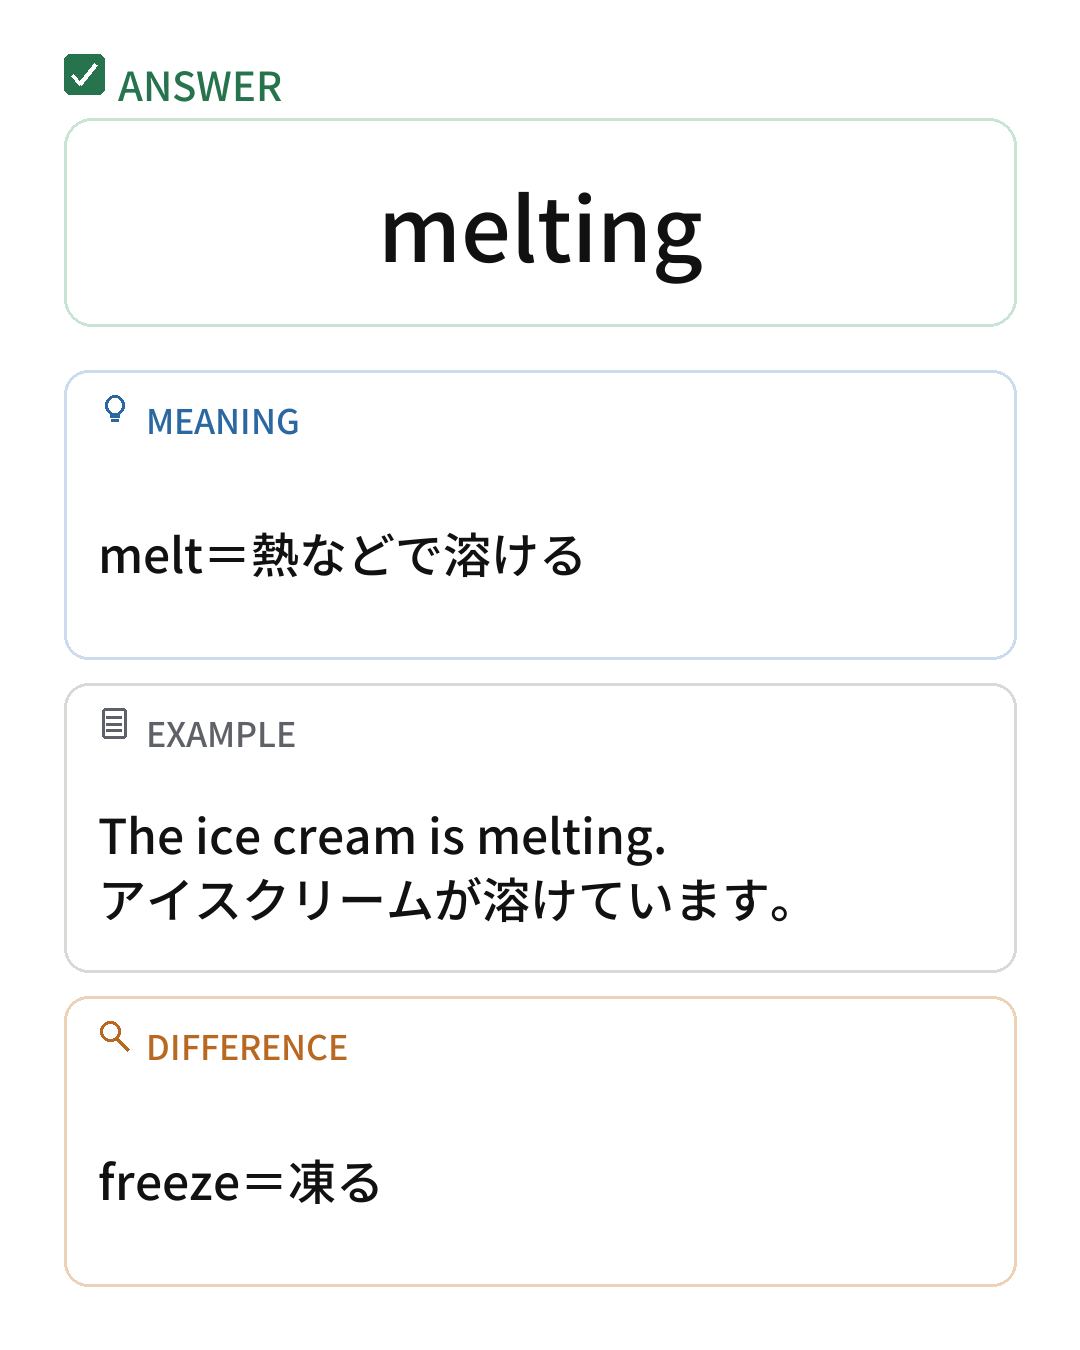
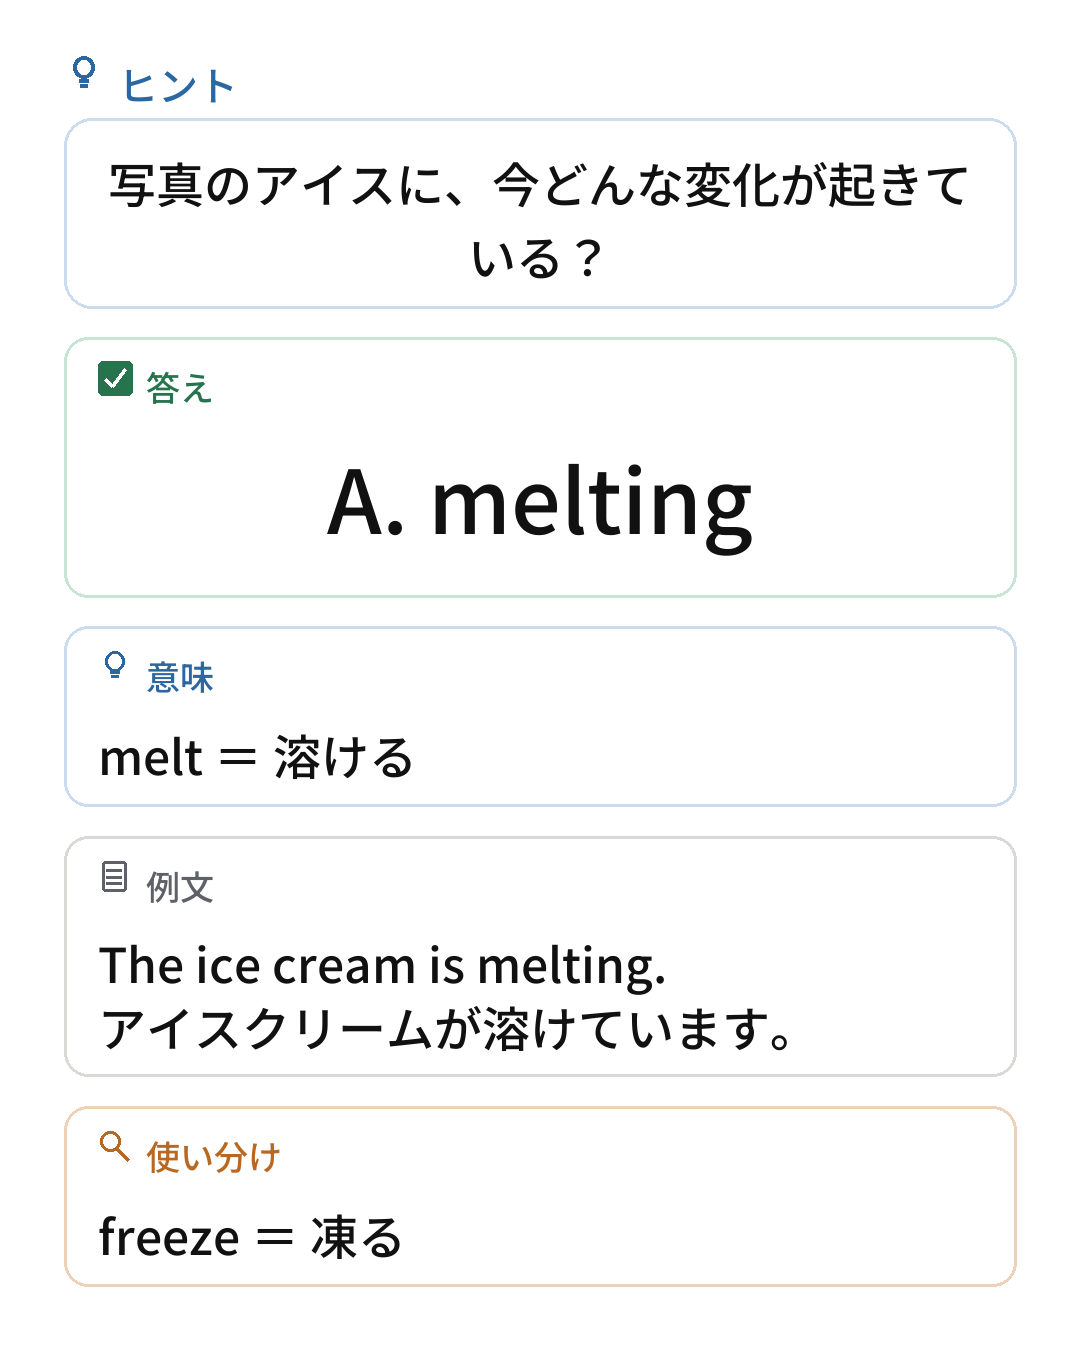
Finalize learner-focused answer image flow

diff --git a/src/instagram_automation/answer_renderer.py b/src/instagram_automation/answer_renderer.py
@@ -8,18 +8,23 @@ from .renderer import BACKGROUND, CANVAS_SIZE, RenderError, TEXT, _font, _wrap
 from .validation import validate
 
 HEADINGS = {
-    "answer": "ANSWER",
-    "point": "POINT",
-    "meaning": "MEANING",
-    "example": "EXAMPLE",
-    "difference": "DIFFERENCE",
-    "also_natural": "ALSO NATURAL",
-    "tip": "TIP",
+    "answer": "答え",
+    "point": "ポイント",
+    "hint": "ヒント",
+    "meaning": "意味",
+    "example": "例文",
+    "difference": "使い分け",
+    "also_natural": "こんな言い方も",
+    "tip": "補足",
 }
+
+GENERIC_HINT = "答えを見る前に、もう一度考えてみよう。"
+FORBIDDEN_HINT_PHRASES = ("を選びます", "を表す語", "に使う前置詞")
 
 STYLES = {
     "answer": {"accent": "#26734D", "background": "#FFFFFF", "border": "#C8E4D4"},
     "point": {"accent": "#2B67A0", "background": "#FFFFFF", "border": "#CADCED"},
+    "hint": {"accent": "#2B67A0", "background": "#FFFFFF", "border": "#CADCED"},
     "meaning": {"accent": "#2B67A0", "background": "#FFFFFF", "border": "#CADCED"},
     "example": {"accent": "#5E6268", "background": "#FFFFFF", "border": "#D9D9D6"},
     "difference": {"accent": "#B96822", "background": "#FFFFFF", "border": "#EED2B8"},
@@ -48,17 +53,23 @@ def _example(content: dict) -> str:
 def _sections(content: dict) -> list[tuple[str, str]]:
     category = content.get("category")
     if category == "grammar":
-        sections = [("point", _required_text(content, "explanation")),
-                    ("example", _example(content))]
+        sections = [("answer", _answer_text(content)), ("example", _example(content))]
+        difference = content.get("key_difference")
+        if isinstance(difference, str) and difference.strip():
+            sections.append(("difference", difference.strip()))
     elif category == "vocabulary":
-        sections = [("meaning", _required_text(content, "explanation")),
+        sections = [("answer", _answer_text(content)),
+                    ("meaning", _required_text(content, "explanation")),
                     ("example", _example(content))]
         difference = content.get("key_difference")
         if isinstance(difference, str) and difference.strip():
             sections.append(("difference", difference.strip()))
     elif category == "situation":
-        sections = [("also_natural", _required_text(content, "also_natural")),
-                    ("point", _required_text(content, "explanation"))]
+        sections = [("answer", _answer_text(content)),
+                    ("also_natural", _required_text(content, "also_natural"))]
+        point = content.get("explanation")
+        if isinstance(point, str) and point.strip():
+            sections.append(("point", point.strip()))
     else:
         raise RenderError("Answer renderer category must be grammar, vocabulary, or situation")
 
@@ -66,6 +77,34 @@ def _sections(content: dict) -> list[tuple[str, str]]:
     if isinstance(tip, str) and tip.strip():
         sections.append(("tip", tip.strip()))
     return sections
+
+
+def _top_section(content: dict) -> tuple[str, str]:
+    kind = "hint"
+    approved = content.get("answer_hint_approved")
+    if not isinstance(approved, bool):
+        raise RenderError("answer_hint_approved must be boolean")
+    if not approved:
+        return kind, GENERIC_HINT
+    text = _required_text(content, "answer_hint")
+    answer = _required_text(content, "best_answer")
+    if answer.casefold() in text.casefold():
+        raise RenderError("answer_hint must not contain the best_answer")
+    if any(phrase in text for phrase in FORBIDDEN_HINT_PHRASES):
+        raise RenderError("answer_hint contains a prohibited answer-leading phrase")
+    return kind, text
+
+
+def _answer_text(content: dict) -> str:
+    answer = _required_text(content, "best_answer")
+    choices = content.get("choices")
+    try:
+        index = choices.index(answer)
+    except (AttributeError, ValueError):
+        raise RenderError("best_answer must exactly match a choice")
+    if index >= 26:
+        raise RenderError("Answer choice index exceeds supported labels")
+    return f"{chr(ord('A') + index)}. {answer}"
 
 
 def _wrap_paragraphs(draw: ImageDraw.ImageDraw, text: str, font: ImageFont.FreeTypeFont,
@@ -96,7 +135,7 @@ def _draw_icon(draw: ImageDraw.ImageDraw, position: tuple[int, int], kind: str, 
         draw.rounded_rectangle((x, y, x + size, y + size), radius=size // 6, fill=color)
         draw.line((x + size * .22, y + size * .54, x + size * .42, y + size * .75,
                    x + size * .80, y + size * .25), fill="#FFFFFF", width=stroke, joint="curve")
-    elif kind in {"point", "meaning"}:
+    elif kind in {"point", "hint", "meaning"}:
         draw.ellipse((x + size * .23, y + size * .05, x + size * .77, y + size * .62), outline=color, width=stroke)
         draw.line((x + size * .38, y + size * .65, x + size * .62, y + size * .65), fill=color, width=stroke)
         draw.line((x + size * .41, y + size * .78, x + size * .59, y + size * .78), fill=color, width=stroke)
@@ -137,6 +176,63 @@ def _draw_section(draw: ImageDraw.ImageDraw, box: tuple[int, int, int, int], kin
         y += font.size + spacing
 
 
+def _draw_answer_section(draw: ImageDraw.ImageDraw, box: tuple[int, int, int, int], text: str) -> None:
+    style = STYLES["answer"]
+    draw.rounded_rectangle(box, radius=24, fill=style["background"], outline=style["border"], width=3)
+    _draw_heading(draw, (box[0] + 34, box[1] + 24), "answer", 34)
+    from .renderer import _draw_centered_text
+    _draw_centered_text(draw, text, (box[0] + 34, box[1] + 82, box[2] - 34, box[3] - 28), 88, 54, 2)
+
+
+def _natural_height(draw: ImageDraw.ImageDraw, kind: str, text: str, is_top: bool = False) -> tuple[int, int]:
+    if is_top:
+        lines = _wrap_paragraphs(draw, text, _font(48), 888)
+        return max(190, min(250, 58 + len(lines) * 64)), 250
+    if kind == "answer":
+        return 260, 340
+    lines = _wrap_paragraphs(draw, text, _font(48), 884)
+    natural = 110 + len(lines) * 64
+    if kind == "example":
+        return max(240, min(340, natural)), 340
+    return max(180, min(280, natural)), 280
+
+
+def _layout(draw: ImageDraw.ImageDraw, top_text: str,
+            sections: list[tuple[str, str]]) -> tuple[int, int, list[tuple[int, int]]]:
+    available_top, available_bottom = 54, 1286
+    heights = [_natural_height(draw, "hint", top_text, is_top=True)[0]]
+    maximums = [_natural_height(draw, "hint", top_text, is_top=True)[1]]
+    for kind, text in sections:
+        height, maximum = _natural_height(draw, kind, text)
+        heights.append(height)
+        maximums.append(maximum)
+
+    gaps = [24] * (len(heights) - 1)
+    available = available_bottom - available_top - 64
+    extra = available - sum(heights) - sum(gaps)
+    if extra < 0:
+        raise RenderError("Answer sections exceed the available canvas height")
+
+    for index in range(len(gaps)):
+        growth = min(40, extra // (len(gaps) - index))
+        gaps[index] += growth
+        extra -= growth
+    for index in range(len(heights)):
+        growth = min(maximums[index] - heights[index], extra // (len(heights) - index))
+        heights[index] += growth
+        extra -= growth
+
+    heading_y = available_top + extra // 2
+    top_box_y = heading_y + 64
+    boxes: list[tuple[int, int]] = [(top_box_y, top_box_y + heights[0])]
+    y = boxes[0][1]
+    for index, height in enumerate(heights[1:]):
+        y += gaps[index]
+        boxes.append((y, y + height))
+        y += height
+    return heading_y, top_box_y, boxes
+
+
 def render_answer(master_path: Path) -> Path:
     source_json = require_file(master_path)
     try:
@@ -146,27 +242,27 @@ def render_answer(master_path: Path) -> Path:
     if not isinstance(content, dict):
         raise RenderError("Master JSON root must be an object")
     validate(content)
+    top_kind, top_text = _top_section(content)
     sections = _sections(content)
-    if len(sections) > 3:
-        raise RenderError("Answer template supports at most three detail sections")
+    if len(sections) > 4:
+        raise RenderError("Answer template supports at most four detail sections")
 
     canvas = Image.new("RGB", CANVAS_SIZE, BACKGROUND)
     draw = ImageDraw.Draw(canvas)
-    _draw_heading(draw, (64, 54), "answer", 40)
+    heading_y, _, boxes = _layout(draw, top_text, sections)
+    _draw_heading(draw, (64, heading_y), top_kind, 40)
 
-    answer_box = (64, 118, 1016, 326)
-    answer_style = STYLES["answer"]
-    draw.rounded_rectangle(answer_box, radius=28, fill=answer_style["background"], outline=answer_style["border"], width=3)
-    answer = _required_text(content, "best_answer")
+    answer_box = (64, boxes[0][0], 1016, boxes[0][1])
+    top_style = STYLES[top_kind]
+    draw.rounded_rectangle(answer_box, radius=28, fill=top_style["background"], outline=top_style["border"], width=3)
     from .renderer import _draw_centered_text
-    _draw_centered_text(draw, answer, (96, 144, 984, 300), 88, 54, 2)
+    _draw_centered_text(draw, top_text, (96, boxes[0][0] + 26, 984, boxes[0][1] - 26), 48, 32, 3)
 
-    top, bottom, gap = 370, 1286, 24
-    section_height = (bottom - top - gap * (len(sections) - 1)) // len(sections)
-    for index, (kind, text) in enumerate(sections):
-        y1 = top + index * (section_height + gap)
-        y2 = bottom if index == len(sections) - 1 else y1 + section_height
-        _draw_section(draw, (64, y1, 1016, y2), kind, text)
+    for (kind, text), (y1, y2) in zip(sections, boxes[1:]):
+        if kind == "answer":
+            _draw_answer_section(draw, (64, y1, 1016, y2), text)
+        else:
+            _draw_section(draw, (64, y1, 1016, y2), kind, text)
 
     IMAGE_DIR.mkdir(parents=True, exist_ok=True)
     output = IMAGE_DIR / f"{content['content_id']}-answer.png"

diff --git a/tests/test_phase1.py b/tests/test_phase1.py
@@ -75,7 +75,7 @@ class Phase1Tests(unittest.TestCase):
 
     def test_oversized_answer_section_fails_closed(self):
         content = json.loads((MASTER_DIR / "ENG-000003.json").read_text())
-        content["explanation"] = "長すぎる説明です。" * 500
+        content["answer_hint"] = "長すぎるヒントです。" * 500
         temporary = MASTER_DIR / "ENG-999999.json"
         temporary.write_text(json.dumps(content, ensure_ascii=False), encoding="utf-8")
         try:
@@ -86,6 +86,41 @@ class Phase1Tests(unittest.TestCase):
 
     def test_answer_box_backgrounds_are_white(self):
         self.assertTrue(all(style["background"] == "#FFFFFF" for style in STYLES.values()))
+
+    def test_answer_hint_cannot_reveal_best_answer(self):
+        content = json.loads((MASTER_DIR / "ENG-000003.json").read_text())
+        content["answer_hint"] = "The answer is for."
+        temporary = MASTER_DIR / "ENG-999999.json"
+        temporary.write_text(json.dumps(content, ensure_ascii=False), encoding="utf-8")
+        try:
+            with self.assertRaises(RenderError):
+                render_answer(temporary)
+        finally:
+            temporary.unlink()
+
+    def test_unapproved_answer_hint_uses_generic_fallback(self):
+        from instagram_automation.answer_renderer import GENERIC_HINT, _top_section
+        content = json.loads((MASTER_DIR / "ENG-000003.json").read_text())
+        content["answer_hint_approved"] = False
+        content["answer_hint"] = ""
+        self.assertEqual(_top_section(content), ("hint", GENERIC_HINT))
+
+    def test_answer_hint_rejects_leading_phrases(self):
+        from instagram_automation.answer_renderer import _top_section
+        content = json.loads((MASTER_DIR / "ENG-000003.json").read_text())
+        content["answer_hint"] = "期間に使う前置詞を選びます。"
+        with self.assertRaises(RenderError):
+            _top_section(content)
+
+    def test_answer_labels_and_choice_prefix(self):
+        from instagram_automation.answer_renderer import HEADINGS, _answer_text
+        self.assertEqual(
+            {key: HEADINGS[key] for key in ("hint", "point", "answer", "meaning", "example", "difference", "also_natural")},
+            {"hint": "ヒント", "point": "ポイント", "answer": "答え", "meaning": "意味",
+             "example": "例文", "difference": "使い分け", "also_natural": "こんな言い方も"},
+        )
+        content = json.loads((MASTER_DIR / "ENG-000003.json").read_text())
+        self.assertEqual(_answer_text(content), "B. for")
 
 
 if __name__ == "__main__":

diff --git a/README.md b/README.md
@@ -35,7 +35,7 @@ Set `problem_image_path` to a repository-relative file directly inside `assets/s
 
 ## Answer image renderer
 
-The answer renderer creates `1080 × 1350` PNG files at the fixed path `artifacts/images/<content_id>-answer.png`. Its headings, icon mapping, section order, and layout are fixed for `grammar`, `vocabulary`, and `situation`; unused optional sections receive no reserved space. English and Japanese text use Noto Sans JP. Stable colored heading icons are drawn directly with Pillow. Fixed accents are green for ANSWER, blue for POINT/MEANING, neutral gray for EXAMPLE, orange for DIFFERENCE, and purple for ALSO NATURAL. Every box has a white `#FFFFFF` background; color is limited to headings, icons, and borders. English examples use the first `examples` item and require a matching Japanese entry in `example_translations`. Situation content requires `also_natural`. Oversized text, unsupported categories, and missing required section data stop rendering without fallback.
+The answer renderer creates `1080 × 1350` PNG files at the fixed path `artifacts/images/<content_id>-answer.png`. Japanese-only UI labels and section order are fixed for `grammar`, `vocabulary`, and `situation`. The top section is a non-revealing `ヒント`; the next box shows the computed choice letter and exact answer, followed by category-specific `意味`, `例文`, `使い分け`, `こんな言い方も`, or `ポイント`. Set `answer_hint_approved` to `true` only for a reviewed hint. When it is `false`, the renderer uses the fixed generic cushion instead; approved hints containing `best_answer` or prohibited answer-leading phrases are rejected. Box heights are measured from content and constrained by section-specific minimums and maximums, with remaining space assigned to gaps and overall balance. English and Japanese text use Noto Sans JP. Stable colored heading icons are drawn directly with Pillow. Fixed accents are green for `答え`, blue for `ヒント`/`ポイント`/`意味`, neutral gray for `例文`, orange for `使い分け`, and purple for `こんな言い方も`. Every box has a white `#FFFFFF` background; color is limited to headings, icons, and borders. Missing required data, unsupported categories, oversized text, and overflowing sections stop rendering without fallback.
 
 All paths are derived from each script/module's resolved `__file__`. Inputs are accepted only from this repository's `data/master`; missing or invalid data stops processing without fallback or automatic correction.
 
